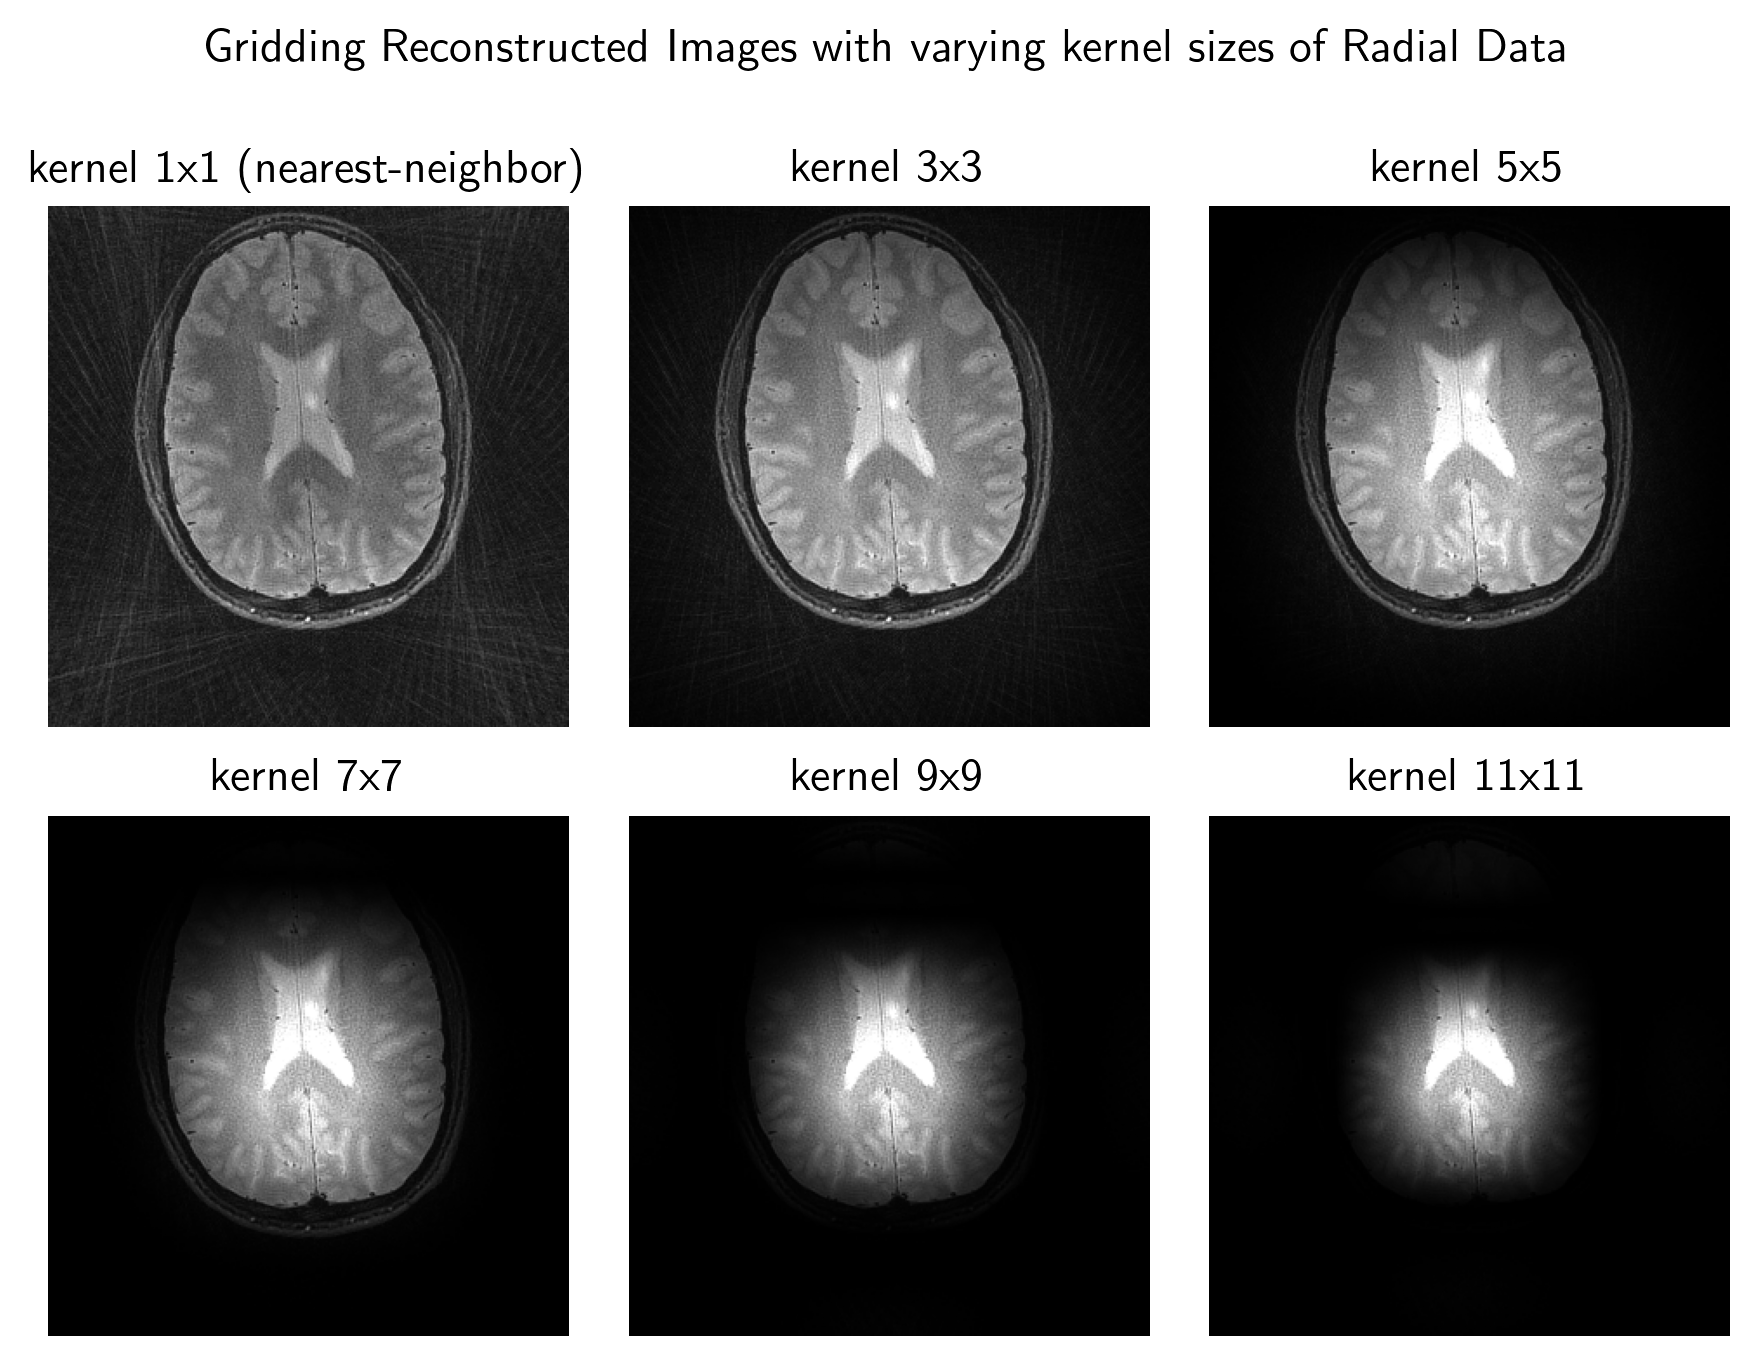
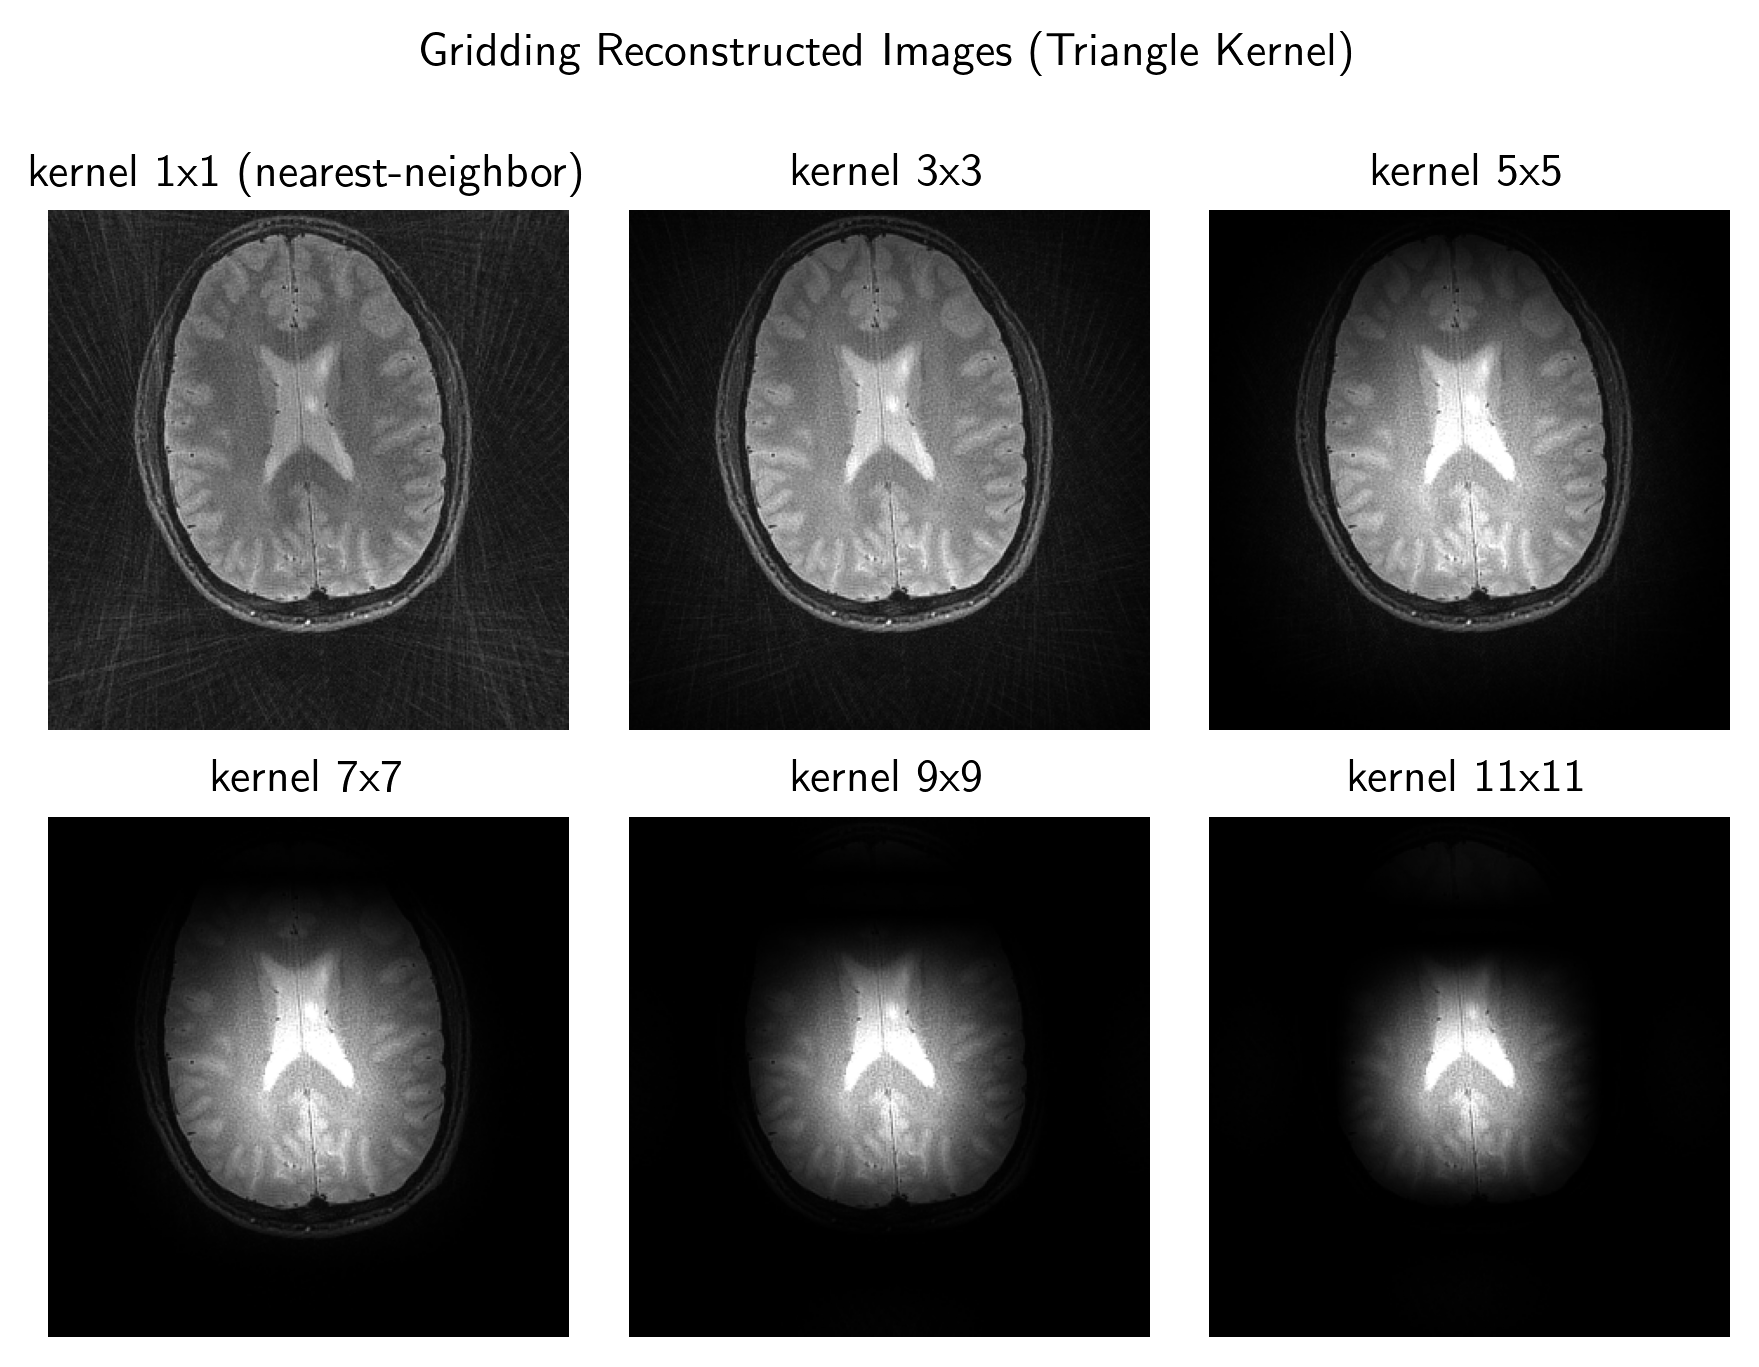
revised image

diff --git a/_drafts/2026-02-08-aomp-001-a.md b/_drafts/2026-02-08-aomp-001-a.md
@@ -204,8 +204,9 @@ For this quiz, under-sampled k-space is the major contribution for the streaking
 </figure>
 
 <figure style="margin: 0rem; padding-top: 1.5rem; padding-bottom: 2.0rem;">
-  <img src="/assets/blog/aomp-001/gridding_spiral_kernel_sizes.png" alt="Different kernel sizes in gridding of spiral data" style="max-width: 100%; height: auto;">
+  <img src="/assets/blog/aomp-001/gridding_kernel_sizes_comparison_saturated.png" alt="Different kernel sizes in gridding - saturated gray scale" style="max-width: 100%; height: auto;">
 </figure>
+
 
 <div class="callout-tip" markdown="1">
 ### Food for thought
@@ -225,6 +226,10 @@ Below are some questions that emerge from the above analysis, which are worth th
 I have left you more questions than answers! But they are food for thought.
 
 </div>
+
+<figure style="margin: 0rem; padding-top: 1.5rem; padding-bottom: 2.0rem;">
+  <img src="/assets/blog/aomp-001/gridding_spiral_kernel_sizes.png" alt="Different kernel sizes in gridding of spiral data" style="max-width: 100%; height: auto;">
+</figure>
 
 <figure style="margin: 0rem; padding-top: 1.5rem; opacity: 1.0;">
   <img src="/assets/blog/aomp-001/soln2.png" alt="Freaking Artifact in Radial MRI - Solution" style="max-width: 100%; height: auto;">
